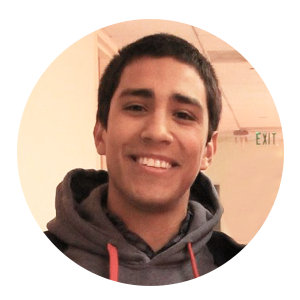
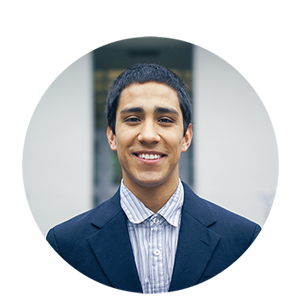
Updated header image and header

diff --git a/index.html b/index.html
@@ -66,7 +66,7 @@
        }
        .header-section {
         position: relative;
-        height: 550px;
+        height: 600px;
         width: auto;
         background-color: #aac7ff;
         background: url('images/header_bg.jpg');
@@ -172,7 +172,8 @@
               <a name="home"></a>
               <div class="header-section mdl-typography--text-center">
                 <div class="logo-font header-title">Gus Silva</div>
-                <img src="images/header_avi.png"/>
+                <br><br>
+                <img src="images/header_avi_hr.png" height="300" width="300"/>
                 <div class="logo-font header-subtitle">University of California, Berkeley <br><br>
                   B.A. Computer Science, 2017<br><br>
                   <!-- LinkedIn -->
